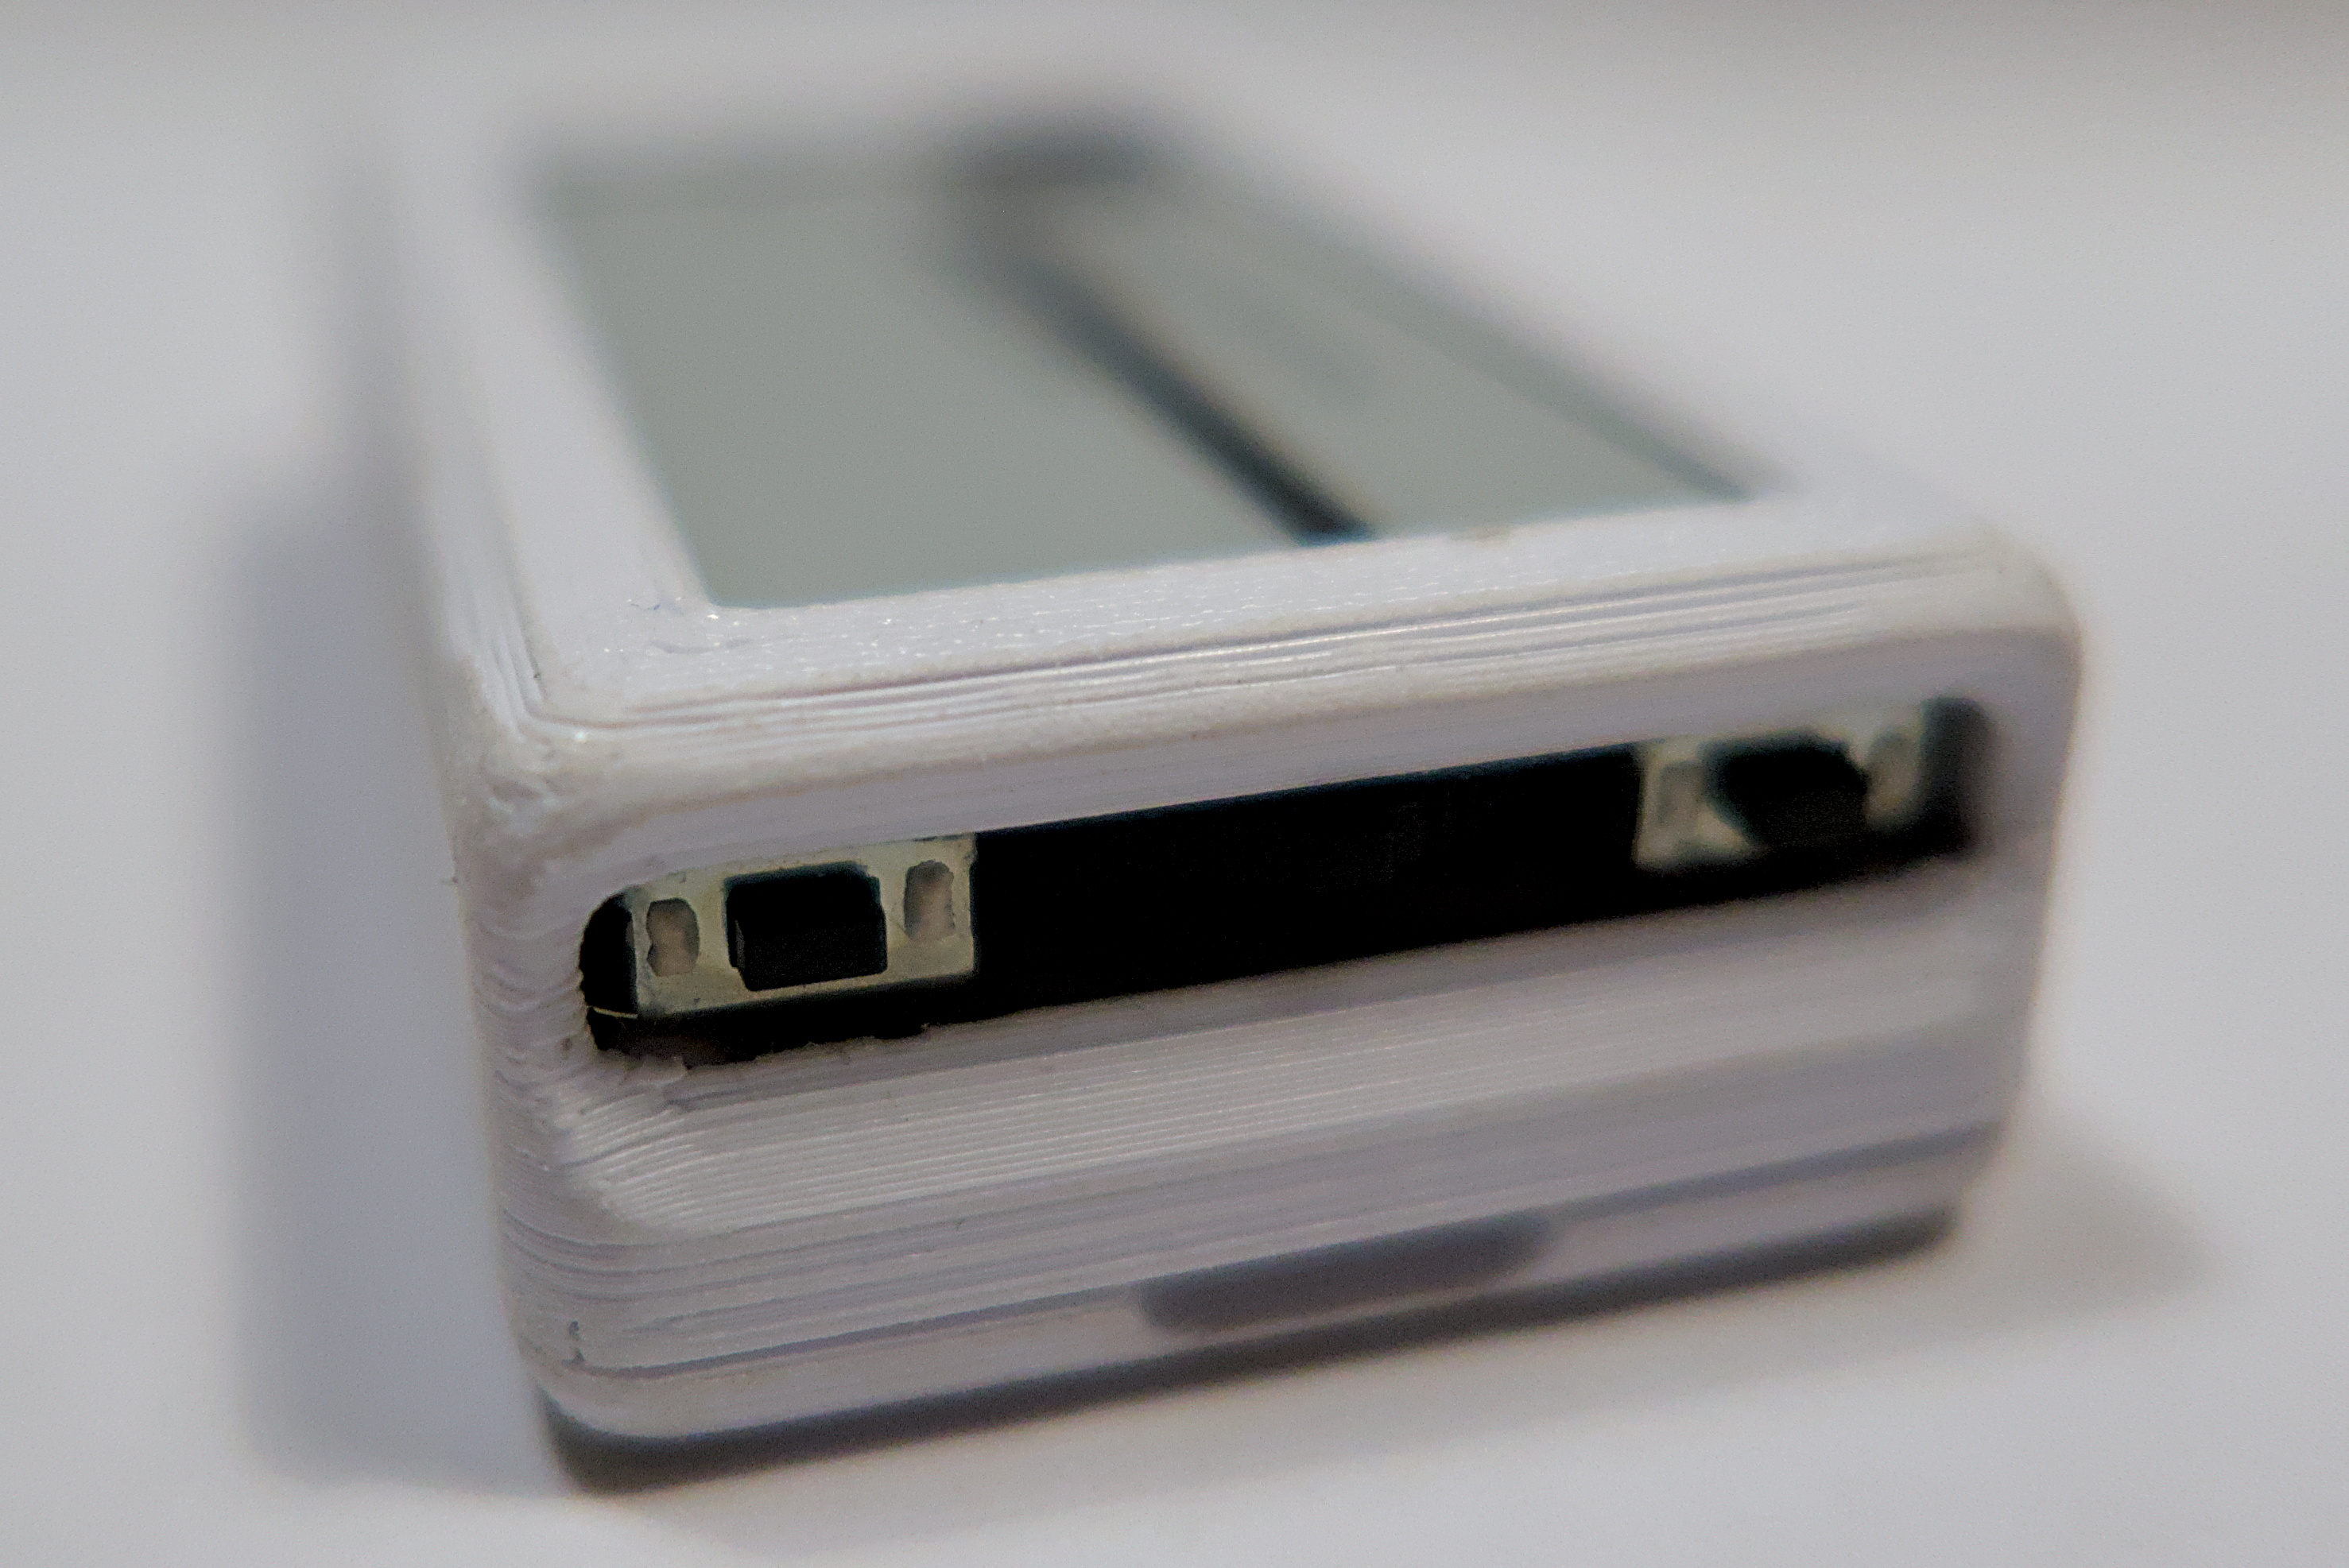
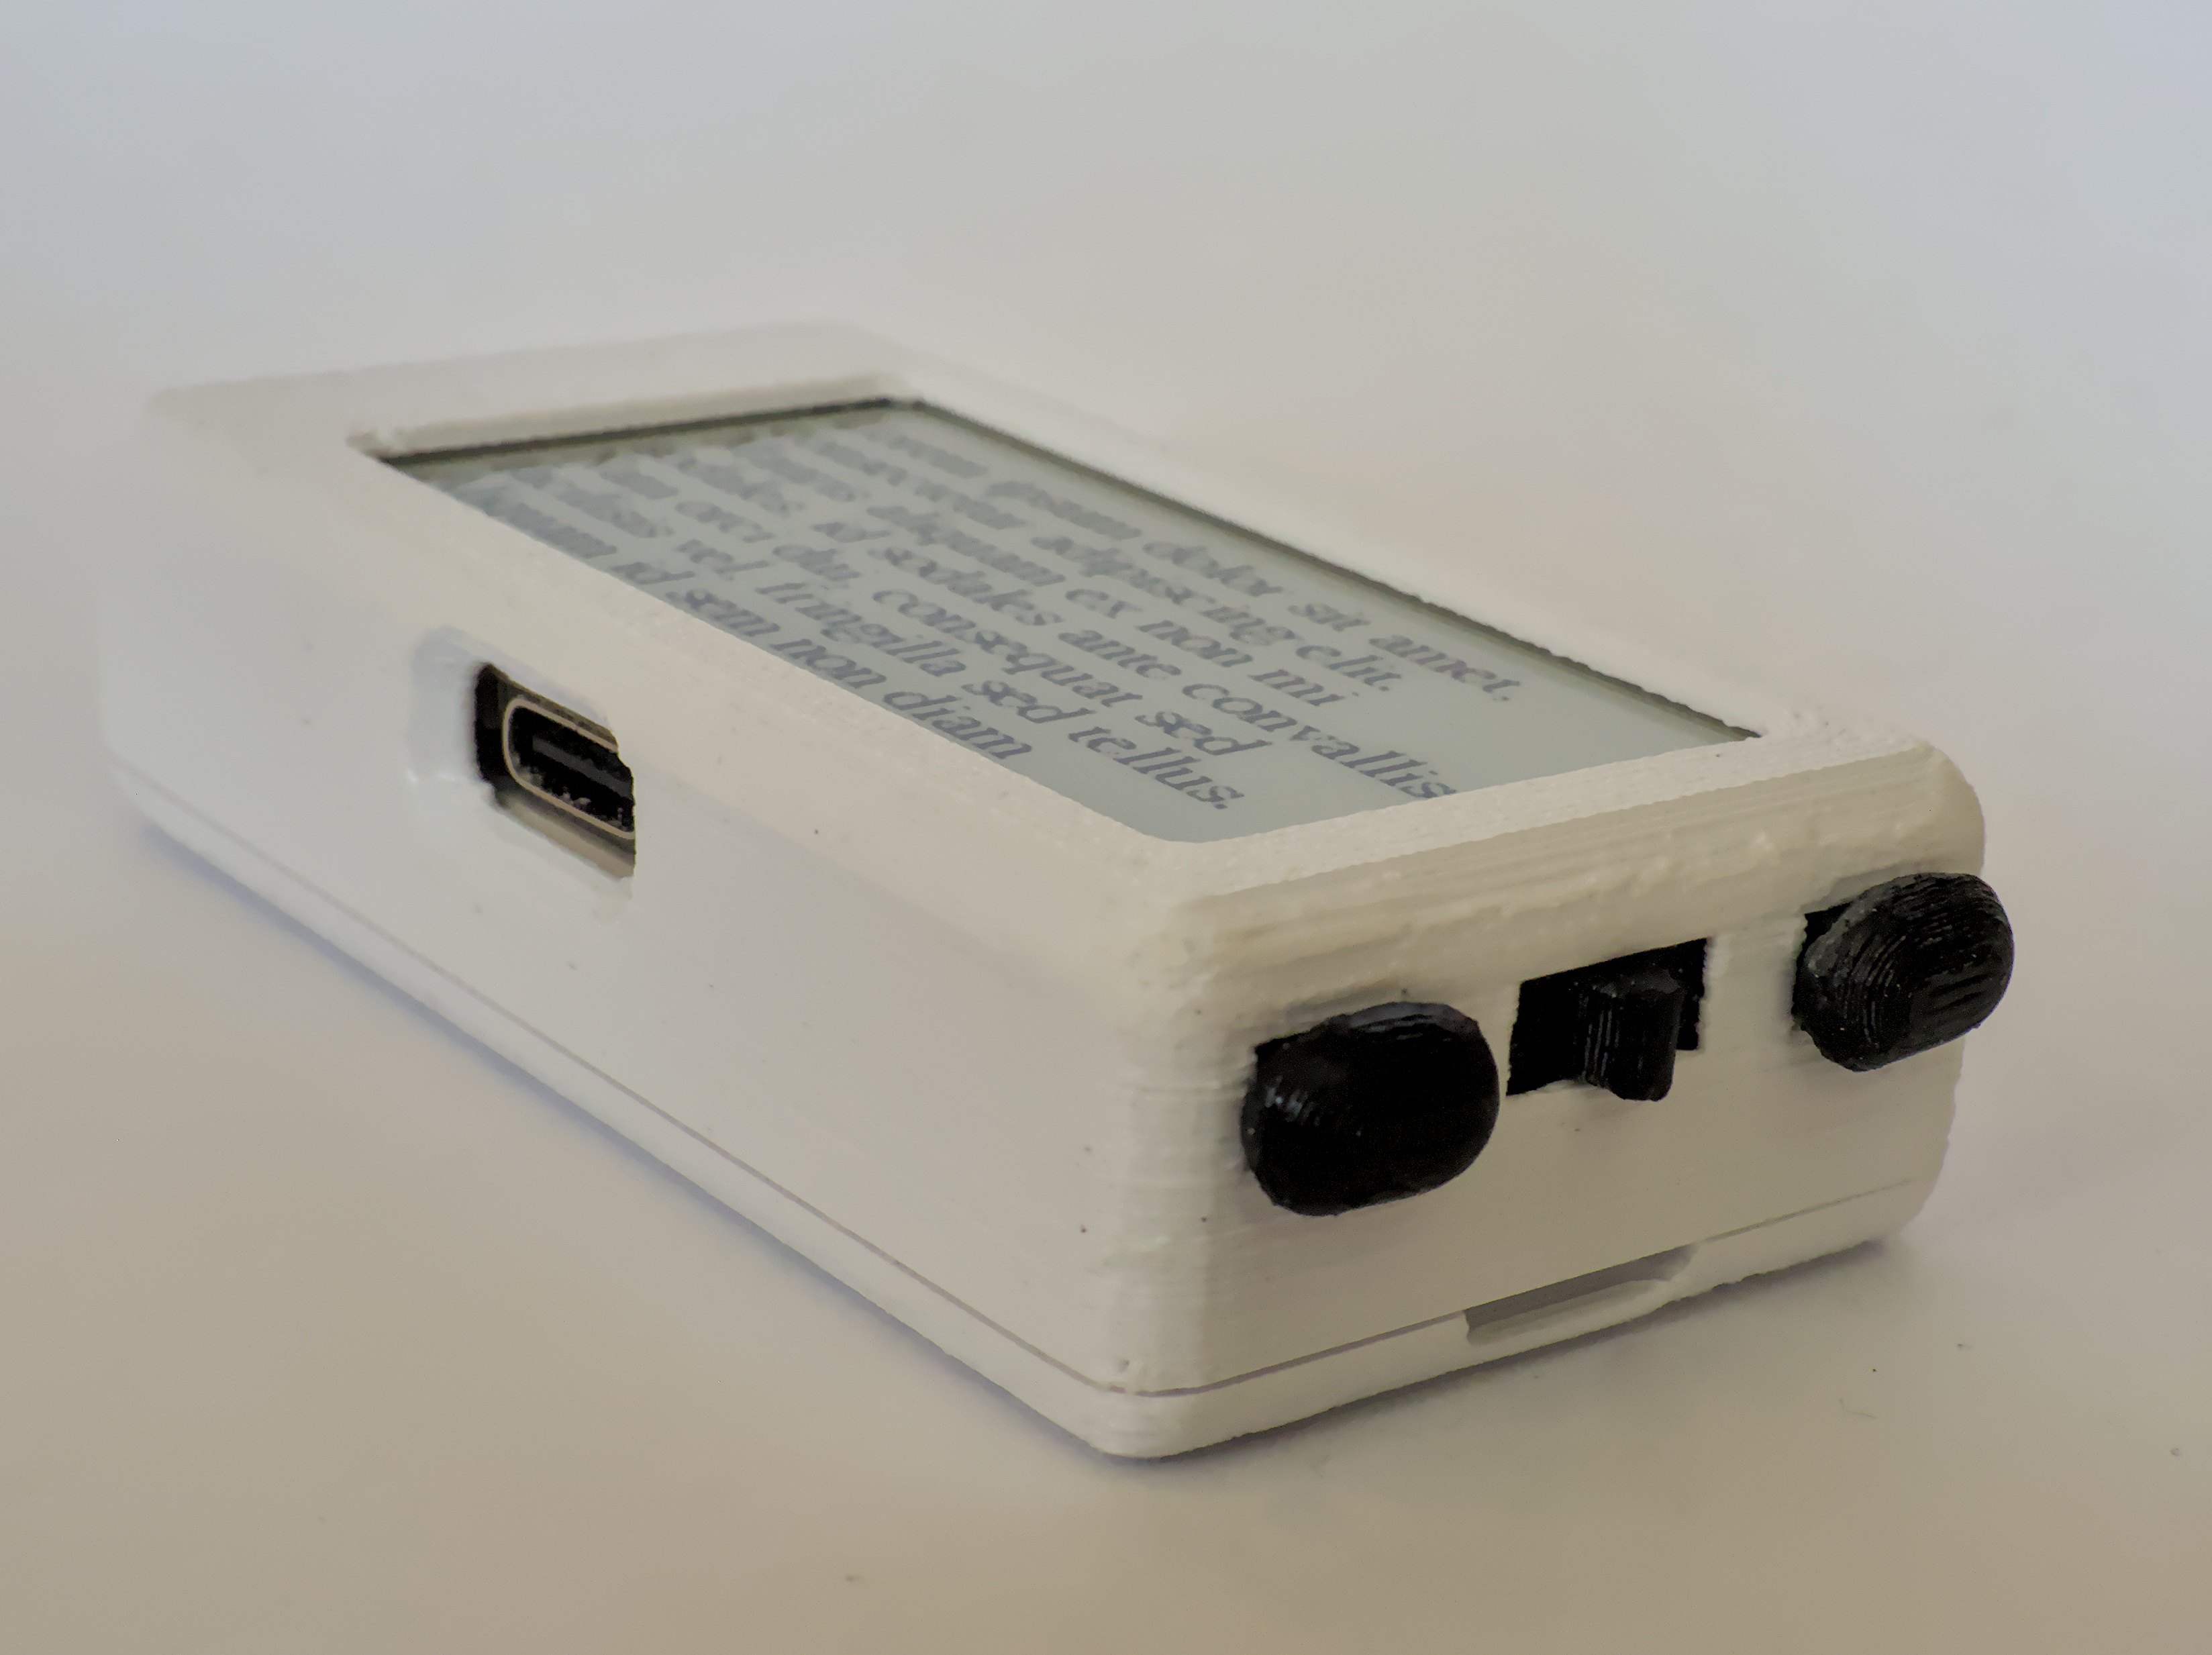
Update README

diff --git a/README.md b/README.md
@@ -14,7 +14,7 @@
 <!-- PROJECT LOGO -->
 <div align="center">
     <a href="https://github.com/SamueleFacenda/tiny-reader">
-        <img src="media/handheld.jpg" alt="Logo" width="256" height="172">
+        <img src="media/face.jpg" alt="Logo" width="256" height="172">
     </a>
     <h3 align="center">TinyReader</h3>
     <p align="center">
@@ -71,7 +71,7 @@
 
 <div style="width:40%; margin: auto;">
 
-![e reader ui](media/ui.jpg)
+![e reader size in hand](media/handheld.jpg)
 </div>
 
 TinyReader is a small and easy to assembly e-book reader. It is intended for mobile reading, it's 
@@ -254,6 +254,9 @@ Use GitHub issues for bugs, feature requests, and build questions.
 
 <!-- GALLERY -->
 ## Gallery
+
+### TinyReader UI
+![e reader ui](media/ui.jpg)
 
 ### TinyReader buttons interface
 ![buttons view](media/buttons.jpg)